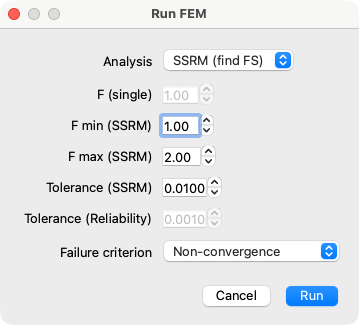
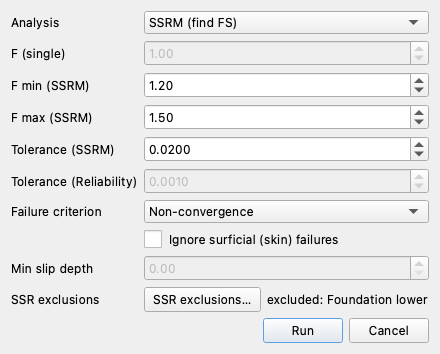
docs: SSR exclusion zones (FEM) + LEM search-window limits
Documents solve_ssrm's ssr_exclude parameter -- per-material-zone exclusion
from strength reduction, mirroring RS2's Apply_SSR / SSR Exclusion Area -- in
the FEM overview (engineering rationale, usage, RS2-P4-VP67 cross-reference)
and in the Studio Run FEM dialog's SSR exclusions... button / picker, with
regenerated dialog screenshots (a multi-material model, one zone excluded).

Also documents circular_search's optional center_box / entry_range /
exit_range / tangent_depth search-window limits on the LEM search page,
noting plainly that there is no Studio UI for them yet (API / test-tag
level only).

Claude-Session: https://claude.ai/code/session_0147GB4LGVZuqGHCRMVzZTsR

diff --git a/docs/lem/search.md b/docs/lem/search.md
@@ -60,6 +60,30 @@ On the James Bay dyke verification problem ([VP75](../verification/rocscience.md
 
 In XSLOPE Studio, grid seeding is the **Grid search** toggle in the Run LEM dialog, available when the analysis is an automated circular search.
 
+### Search-Window Limits
+
+By default, `circular_search()` explores the whole model and reports the true global minimum. Four optional keyword arguments — `center_box`, `entry_range`, `exit_range`, and `tangent_depth` — narrow that exploration to a chosen region instead, the LEM analog of Slide2's slip-centre / entry-and-exit search limits and RS2's SSR Polygon Search Area. All four default to `None` (unconstrained — the ordinary behavior of `circular_search()`); passing any of them confines the search to a region so it settles on a chosen **local** minimum rather than the global one.
+
+- `center_box=(x1, y1, x2, y2)` restricts candidate circle **centers** to a rectangle (corners in any order). Grid points outside the box are dropped outright, so refinement can never walk out of it; a starting circle whose center lies outside is clamped in only for its own launch point, not reported as a result.
+- `entry_range=(xa, xb)` / `exit_range=(xc, xd)` restrict where the failure surface crosses the ground surface, in x. Entry is the crest-side (higher-ground) endpoint and exit the toe-side one, independent of slope facing. A trial whose endpoints fall outside its range is **rejected** (scored at `fs_fail`), never clamped, so the reported minimum genuinely honors the window.
+- `tangent_depth=(ymin, ymax)` restricts the elevation of the circle's lowest (tangent) point to a band; out-of-band trials are rejected the same way.
+
+All four constraints survive both the adaptive 9-point refinement and the `seed='grid'` sweep, and a malformed bound raises `ValueError`.
+
+```python
+fs_cache, converged, search_path, circle_cache = circular_search(
+    slope_data, 'spencer',
+    entry_range=(42, 54),
+    exit_range=(23, 32),
+    tangent_depth=(16, 22),
+)
+```
+
+Use these limits when a slope has several competing local minima and the question at hand is about a specific one of them, not whichever is lowest. [RS2-61](../verification/rs2.md#rs2-61) is a worked example: the same homogeneous-slope geometry has a global minimum (Spencer 1.338, matching Slide2's 1.336) and a separate upper-face local minimum (Spencer 1.437, matching Slide2's 1.443) that an unconstrained search never reports, because it always finds the lower global value first. An `entry_range` / `exit_range` / `tangent_depth` window isolates the upper-face family instead.
+
+!!! note "No Studio UI yet"
+    These search-window limits are available at the `circular_search()` / test-tag level only — there is currently no dialog control for them in XSlope Studio. Set them from the API, or via a `circular_search` test tag (`center_box`, `entry_range`, `exit_range`, `tangent_depth`, each a `;`-separated list of numbers).
+
 ## Non-Circular Failure Surfaces
 
 The non-circular search algorithm (`noncircular_search()` in xslope/search.py) takes a fundamentally different approach from the circular search, as it must optimize the positions of multiple control points that define an arbitrary failure surface rather than just optimizing a center and depth. The algorithm begins with a user-defined initial failure surface specified as a sequence of points in the slope_data['non_circ'] array. Each point in this sequence is characterized by its x and y coordinates along with a movement constraint that controls how the point is allowed to move during the optimization process.

diff --git a/docs/fem/overview.md b/docs/fem/overview.md
@@ -595,6 +595,30 @@ The key parameters of `solve_ssrm()` are:
 
 The returned result dictionary contains the critical factor of safety (`FS`), the last converged `solve_fem()` solution (`last_solution`), the final bisection interval, and the number of SSRM iterations. The `last_solution` can be passed directly to `plot_fem_results()` for visualization of the failure mechanism at the critical state.
 
+### SSR Exclusion Zones
+
+Some vendor SSR analyses constrain where the failure mechanism is allowed to develop by holding one or more material zones at full strength throughout the reduction — RS2 exposes this as a per-material **Apply_SSR** flag, presented in its interface as an "SSR Exclusion Area." XSLOPE reproduces the same mechanism through the optional **`ssr_exclude`** parameter on `solve_ssrm()`.
+
+`ssr_exclude` takes a list of material zone names. At every trial factor $F$, every zone *not* named still has its $c$ and $\tan\phi$ divided by $F$ as usual, but a named zone keeps its full, unreduced strength — it can never itself yield, so the developing shear band is forced up and out of it. This has two related uses: reproducing a vendor analysis that constrains where the mechanism may localize, so the two solutions can be compared surface-for-surface, and excluding a zone that the model includes for load transfer but that isn't meant to participate in the failure — a stiff foundation, a rock unit, or any layer the analysis calls non-participating.
+
+```python
+from xslope.fem import solve_ssrm
+
+result = solve_ssrm(
+    fem_data,
+    F_min=1.2,
+    F_max=1.5,
+    tolerance=0.02,
+    ssr_exclude=["Foundation lower"],
+)
+```
+
+Names must match a material's `name` field in the input exactly; an unknown name raises `ValueError` rather than silently reducing nothing. The default, `None`, reduces every zone — today's ordinary behavior, unchanged.
+
+Because the excluded zone can never fail, the reported factor of safety is conditional on that constraint rather than a true global minimum — run the unconstrained case too (`ssr_exclude=None`) so the comparison is explicit. [RS2-P4-VP67](../verification/rs2.md#p4-vp67) works through exactly this pair on a USACE end-of-construction embankment: an unconstrained SSRM of 1.076 riding a deep foundation mechanism, against 1.303 with the foundation's lower zone excluded, landing on the same toe-circle family RS2 reports at 1.33 under its own SSR Exclusion Area.
+
+In XSlope Studio, `ssr_exclude` is the **SSR exclusions…** button in the Run FEM dialog (SSRM only) — see [Finite element (FEM)](../studio/analysis.md#finite-element-fem).
+
 ## Element Type Selection and Volumetric Locking
 
 ### The Problem: Volumetric Locking in Low-Order Elements

diff --git a/docs/studio/analysis.md b/docs/studio/analysis.md
@@ -222,6 +222,22 @@ the failure criterion.
 
 ![Run FEM dialog](images/analysis_run_fem_dialog.png)
 
+For an SSRM run, the **SSR exclusions…** button opens a checkbox picker — one row per
+material zone in the model, checked (included) by default:
+
+![SSR exclusions dialog](images/analysis_ssr_exclude_dialog.png)
+
+Unchecking a zone holds it at full strength through every trial factor instead of
+dividing its c and tan(φ) like the rest of the model — RS2's per-material *Apply_SSR*
+flag / SSR Exclusion Area. The mechanism is pushed up and out of an excluded zone, which
+is useful for keeping a non-participating zone (a stiff foundation, say) from carrying
+the failure, and for reproducing a vendor analysis that constrains the mechanism the same
+way — see [SSR Exclusion Zones](../fem/overview.md#ssr-exclusion-zones) for the
+engineering rationale and a worked comparison against RS2. The button and the summary
+label next to it are gated to the SSRM analysis; the choice is a run option, not a model
+property, so it lives with the rest of the dialog's settings (remembered for the session
+to prefill the next run) rather than being saved into the input file.
+
 The run produces **FEM · Data** (mesh + boundary conditions + reinforcement) and
 **FEM · Results** (deformation, shear strain, displacement vectors). An SSRM run
 reports the factor of safety and can be **cancelled** mid-run. The solution is
